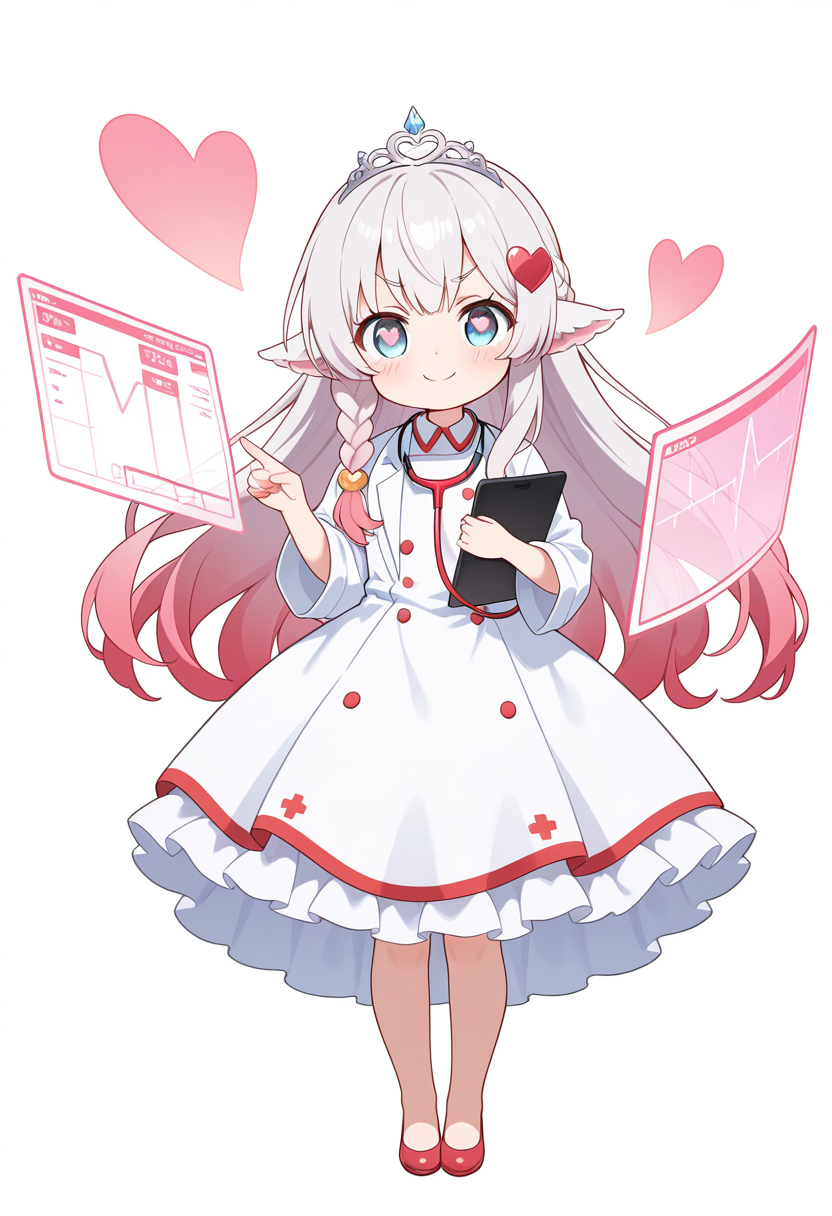
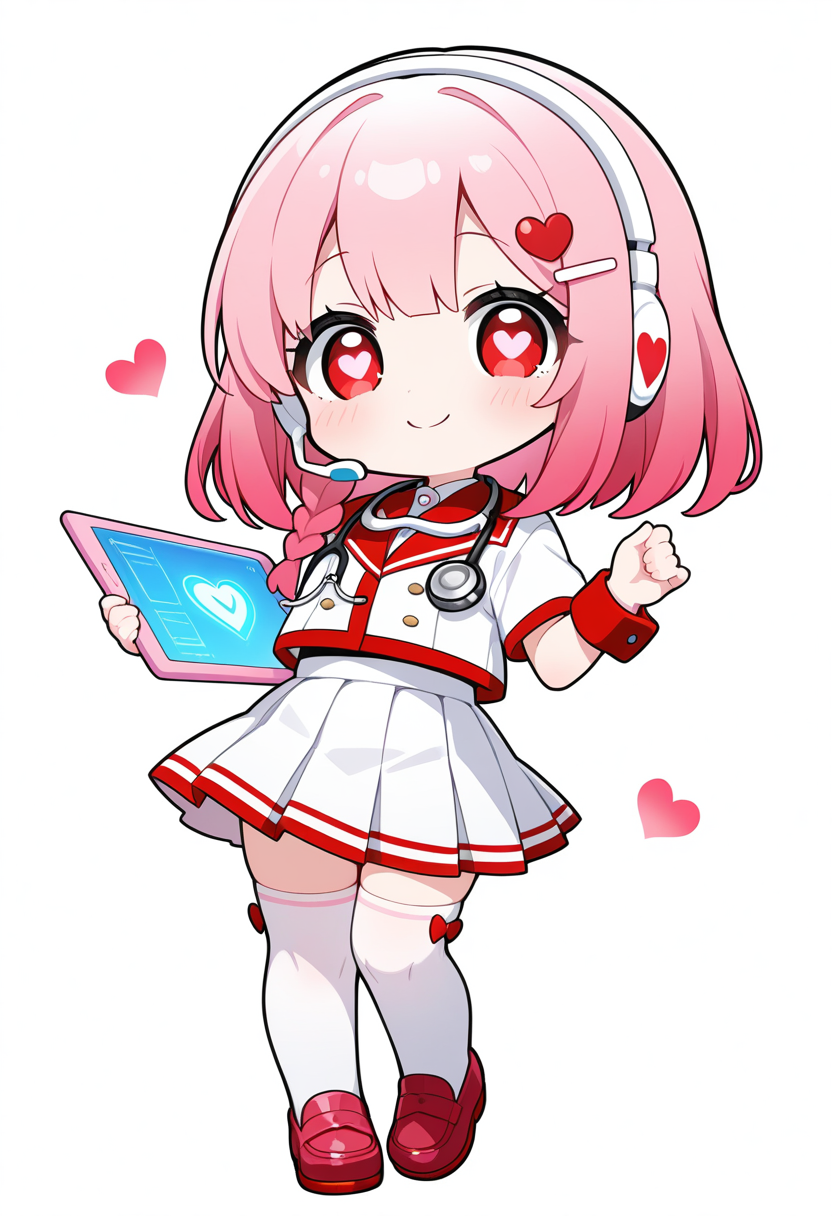
feat(chibi): メドレー (4480) base.pngをリズベルに合わせて再作成

diff --git a/index.html b/index.html
@@ -2457,14 +2457,14 @@
     "name": "メドレー",
     "corp": "「医療ヘルスケアの未来をつくる」を掲げ、医療介護求人サイト「ジョブメドレー」やオンライン診療システム「CLINICS」、医療SaaSを展開。ロゴマークは生命力の「赤」と心臓のポンプを象徴。",
     "concept": "医療と人々の心をつなぐハートビート・メディカル少女",
-    "hair": "優しいコーラルピンクから毛先にかけて明るいホワイトへ変わるふんわりサイド三つ編み（赤いハート型のヘアピン留め）",
+    "hair": "コーラルピンクから毛先にかけて明るいホワイトへ変わるグラデーションのミディアムボブヘア。右肩に垂れる片側三つ編みと、前髪横に赤いハートのヘアピン留め（通常の人間耳でエルフ耳・ティアラなし）",
     "eyes": "温和で安心感のあるタレ目とやわらかなアーチ眉。瞳は透き通ったルビーレッドで、生命力を感じさせるハート型のハイライト（heart-shaped pupils）が入っている。",
-    "visual": "白衣をベースに赤いラインと心臓のシンボルマークが入った清潔感あるナース・ドクター風ジャケットとスカート姿。首に赤い聴診器をかけ、片手にオンライン診療用のタブレット端末（心電図と笑顔マーク表示）を抱えている。",
-    "motif": "赤いハート型心臓シンボル、光る聴診器、オンライン診療の通話ウィンドウ、医療用カプセル。",
+    "visual": "赤いハートマーク付きの白いマイク付きヘッドセットを装着し、白いクロップド丈のメディカルジャケット（赤い襟ライン・赤ボタン・赤い袖口カフス・両袖に赤いハートワッペン）と、裾に赤い二重ラインが入った白いプリーツミニスカート姿。白いハイソックス（赤いハートワンポイント）に濃い赤のローファーを履き、首に赤い聴診器をかけ、片手に光るシアン色のホログラムタブレット（心電図と笑顔マーク表示）を持っている（ナースキャップやロング白衣は着ない）。",
+    "motif": "赤いハート型ヘッドセット、光るシアン色のホログラムタブレット（心電図・笑顔ハート表示）、ハート型チェストピースの赤い聴診器、赤白の医療カプセル型バトン。",
     "color": "メドレーレッド（鮮やかな赤）、白、コーラルピンク。",
     "reaction_win": "タブレットと聴診器を元気よく掲げ、周囲に赤いハートとキラキラの回復エフェクトが舞う中で満面の笑顔（win.png）。",
     "reaction_loss": "聴診器がコードに絡まってしまい、タレ目をさらに下げて困り顔のしょんぼり涙目（loss.png）。",
-    "reaction_sl": "白衣の袖がほつれて煤汚れが付き、タブレットの画面が真っ暗になって小さな煙が立ち上り、聴診器を抱えてへたり込み涙目（sl.png）。",
+    "reaction_sl": "メディカルジャケットの袖がほつれて煤汚れが付き、タブレットの画面が真っ暗になって小さな煙が立ち上り、聴診器を抱えてへたり込み涙目（sl.png）。",
     "source_file": "20261117_watchlist_candidates.md",
     "images": {
       "base": {
